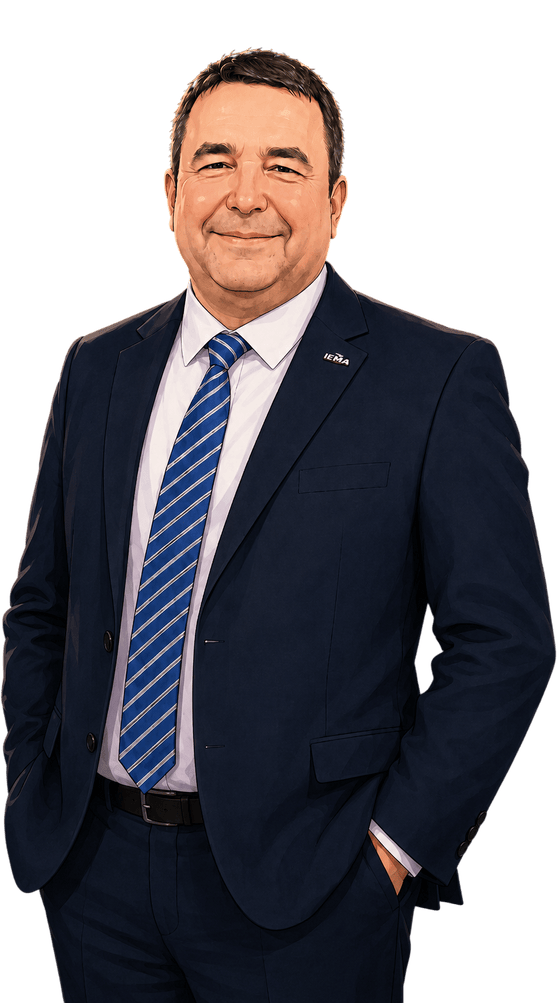
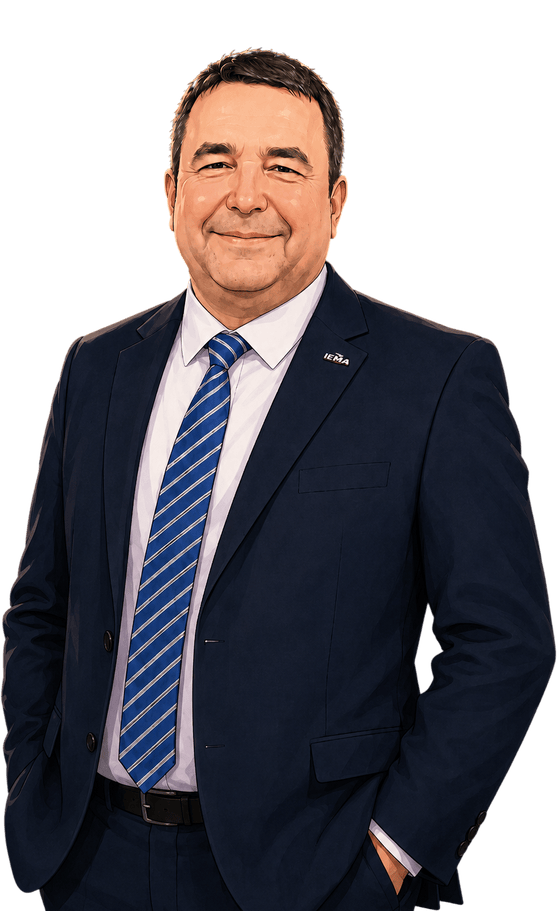
Karsilama bolumu inceltmeleri ve acilis ekrani eklendi

diff --git a/css/styles.css b/css/styles.css
@@ -2716,17 +2716,18 @@ html[data-theme="dark"] .role-ico {
 .welcome-hero-row {
   position:relative;
   display:flex;
-  align-items:flex-end;
+  align-items:flex-start;
   justify-content:center;
-  gap:22px;
-  margin-top:-6px;
+  gap:10px;
+  margin-top:-4px;
 }
 .welcome-hero-person {
   position:relative;
-  flex:0 1 118px;
+  flex:0 0 92px;
   min-width:0;
   margin:0;
 }
+.welcome-hero-text { align-self:center; }
 .welcome-hero-person::before {
   content:"";
   position:absolute;left:50%;bottom:6px;
@@ -2748,24 +2749,90 @@ html[data-theme="dark"] .role-ico {
 .welcome-hero-name {
   position:relative;z-index:1;
   margin:6px 0 0;
-  font-size:10.5px;line-height:1.3;color:rgba(255,255,255,.72);
+  font-size:10px;line-height:1.3;color:rgba(255,255,255,.72);
 }
-.welcome-hero-name b { display:block;color:#fff;font-weight:700;font-size:11px; }
+.welcome-hero-name b { display:block;color:#fff;font-weight:700;font-size:10.5px; }
+.welcome-hero-role { display:block; }
+.welcome-hero-badge {
+  display:inline-block;
+  margin:4px 0 3px;
+  padding:2px 7px;
+  border-radius:999px;
+  background:color-mix(in srgb,var(--brand-red) 26%,transparent);
+  border:1px solid color-mix(in srgb,var(--brand-red) 60%,transparent);
+  color:#fff;
+  font-size:8px;font-weight:700;letter-spacing:.02em;text-transform:uppercase;
+}
+.welcome-hero-quote {
+  position:relative;z-index:1;
+  margin:8px 0 0;
+  padding:0;
+  font-size:9.5px;line-height:1.35;font-style:italic;
+  color:rgba(255,255,255,.68);
+}
+.welcome-hero-quote::before { content:"\201C"; }
+.welcome-hero-quote::after { content:"\201D"; }
 .welcome-hero-text {
-  margin:16px 0 0;
-  font-size:12.5px;line-height:1.5;color:rgba(255,255,255,.82);
-  text-align:left;
+  flex:1 1 auto;
+  min-width:0;
+  margin:0;
+  font-size:11px;line-height:1.5;color:rgba(255,255,255,.85);
+  text-align:center;
 }
 @media (min-width:560px) {
   .welcome-hero { padding:26px 28px 24px; }
-  .welcome-hero-title { font-size:28px;margin-bottom:6px; }
-  .welcome-hero-row { gap:56px; }
-  .welcome-hero-person { flex-basis:170px; }
+  .welcome-hero-title { font-size:28px;margin-bottom:10px; }
+  .welcome-hero-row { gap:28px; }
+  .welcome-hero-person { flex-basis:160px; }
   .welcome-hero-name { font-size:11.5px; }
-  .welcome-hero-name b { font-size:12.5px; }
-  .welcome-hero-text { text-align:center;font-size:13px;max-width:520px;margin-left:auto;margin-right:auto; }
+  .welcome-hero-name b { font-size:13px; }
+  .welcome-hero-badge { font-size:10px;padding:3px 10px; }
+  .welcome-hero-quote { font-size:11.5px; }
+  .welcome-hero-text { font-size:13.5px;max-width:340px; }
 }
-@media (max-width:359px) {
-  .welcome-hero-row { gap:12px; }
-  .welcome-hero-person { flex-basis:100px; }
+@media (max-width:340px) {
+  .welcome-hero-row { gap:6px; }
+  .welcome-hero-person { flex-basis:78px; }
+  .welcome-hero-text { font-size:10px; }
+}
+
+/* =========================================================================
+   AÇILIŞ EKRANI (SPLASH) — uygulama ilk açıldığında kısaca gösterilen
+   marka görseli. Sayfa tamamen yüklenene kadar (en az bir minimum süre)
+   ekranı kaplar, sonra yumuşak bir geçişle kaybolur ve DOM'dan kaldırılır.
+   Mobilde dikey, geniş ekranlarda (>=860px) yatay tasarım gösterilir
+   (bkz. index.html <picture>). Salt görsel/geçici bir katman — uygulamanın
+   kendi düzenine (header/main/tabbar) dokunmaz.
+   ========================================================================= */
+.app-splash {
+  position: fixed;
+  inset: 0;
+  z-index: 200;
+  display: flex;
+  align-items: center;
+  justify-content: center;
+  background: #eef1f6;
+  opacity: 1;
+  visibility: visible;
+  transition: opacity .45s ease, visibility 0s linear 0s;
+}
+.app-splash.is-hidden {
+  opacity: 0;
+  visibility: hidden;
+  transition: opacity .45s ease, visibility 0s linear .45s;
+}
+.app-splash picture {
+  display: block;
+  width: 100%;
+  height: 100%;
+}
+.app-splash-img {
+  display: block;
+  width: 100%;
+  height: 100%;
+  object-fit: contain;
+}
+@media (prefers-reduced-motion:reduce) {
+  .app-splash { transition: none; }
+  .app-splash.is-hidden { transition: none; }
 }

diff --git a/js/app.js b/js/app.js
@@ -257,14 +257,16 @@
       '<div class="welcome-hero-row">' +
         '<figure class="welcome-hero-person">' +
           '<img class="welcome-hero-photo" src="assets/img/bas-hakem-erdinc-patlar-full.png" alt="' + esc(t("mhkViceChairName")) + '">' +
-          '<figcaption class="welcome-hero-name"><b>' + esc(t("mhkViceChairName")) + '</b>' + esc(t("mhkViceChairTitle")) + '</figcaption>' +
+          '<figcaption class="welcome-hero-name"><b>' + esc(t("mhkViceChairName")) + '</b><span class="welcome-hero-badge">' + esc(t("chiefInstructorLabel")) + '</span><span class="welcome-hero-role">' + esc(t("mhkViceChairTitle")) + '</span></figcaption>' +
+          '<blockquote class="welcome-hero-quote">' + esc(t("mhkViceChairQuote")) + '</blockquote>' +
         '</figure>' +
+        '<p class="welcome-hero-text">' + esc(t("welcomeHeroText")) + '</p>' +
         '<figure class="welcome-hero-person">' +
           '<img class="welcome-hero-photo" src="assets/img/bas-hakem-erdogan-aydin-full.png" alt="' + esc(t("mhkChairName")) + '">' +
-          '<figcaption class="welcome-hero-name"><b>' + esc(t("mhkChairName")) + '</b>' + esc(t("mhkChairTitle")) + '</figcaption>' +
+          '<figcaption class="welcome-hero-name"><b>' + esc(t("mhkChairName")) + '</b><span class="welcome-hero-badge">' + esc(t("chiefInstructorLabel")) + '</span><span class="welcome-hero-role">' + esc(t("mhkChairTitle")) + '</span></figcaption>' +
+          '<blockquote class="welcome-hero-quote">' + esc(t("mhkChairQuote")) + '</blockquote>' +
         '</figure>' +
       '</div>' +
-      '<p class="welcome-hero-text">' + esc(t("welcomeHeroText")) + '</p>' +
     '</div></div>';
   }
 

diff --git a/index.html b/index.html
@@ -35,6 +35,33 @@
   <link rel="stylesheet" href="css/styles.css" />
 </head>
 <body>
+  <!-- Açılış ekranı: uygulama ilk yüklenirken kısaca gösterilir, sonra kaybolur -->
+  <div id="appSplash" class="app-splash" aria-hidden="true">
+    <picture>
+      <source media="(min-width:860px)" srcset="assets/img/splash-desktop.jpg" />
+      <img class="app-splash-img" src="assets/img/splash-mobile.jpg" alt="" />
+    </picture>
+  </div>
+  <script>
+    (function () {
+      var el = document.getElementById("appSplash");
+      if (!el) return;
+      var MIN_MS = 700, MAX_MS = 4000, start = Date.now(), done = false;
+      function hide() {
+        if (done) return;
+        done = true;
+        var wait = Math.max(0, MIN_MS - (Date.now() - start));
+        setTimeout(function () {
+          el.classList.add("is-hidden");
+          setTimeout(function () { if (el.parentNode) el.parentNode.removeChild(el); }, 500);
+        }, wait);
+      }
+      if (document.readyState === "complete") hide();
+      else window.addEventListener("load", hide);
+      setTimeout(hide, MAX_MS);
+    })();
+  </script>
+
   <div id="app" class="app" data-lang="tr">
     <header id="appHeader" class="app-header"></header>
     <main id="main" class="main" tabindex="-1"></main>

diff --git a/data/meta.js b/data/meta.js
@@ -58,6 +58,9 @@ window.IFMA.ui = {
     mhkChairTitle: "MHK Başkanı",
     mhkViceChairName: "Erdinç Patlar",
     mhkViceChairTitle: "MHK Başkan Yardımcısı",
+    chiefInstructorLabel: "Baş Eğitmenimiz",
+    mhkViceChairQuote: "Hakemlik pratiğini geliştirmek için gölge hakemlik uygulamaları şarttır.",
+    mhkChairQuote: "Mükemmel hakem yoktur. Az hata yapan hakem vardır.",
     globalSearch: "Global arama",
     rulesetLabel: "Ruleset 2026",
     activeFilters: "Aktif filtreler",
@@ -161,6 +164,9 @@ window.IFMA.ui = {
     mhkChairTitle: "Chair, Central Referee Board (MHK)",
     mhkViceChairName: "Erdinç Patlar",
     mhkViceChairTitle: "Vice Chair, Central Referee Board (MHK)",
+    chiefInstructorLabel: "Our Chief Instructor",
+    mhkViceChairQuote: "Shadow refereeing practice is essential to sharpen your skills as a referee.",
+    mhkChairQuote: "There is no perfect referee — only one who makes fewer mistakes.",
     globalSearch: "Global search",
     rulesetLabel: "Ruleset 2026",
     activeFilters: "Active filters",
